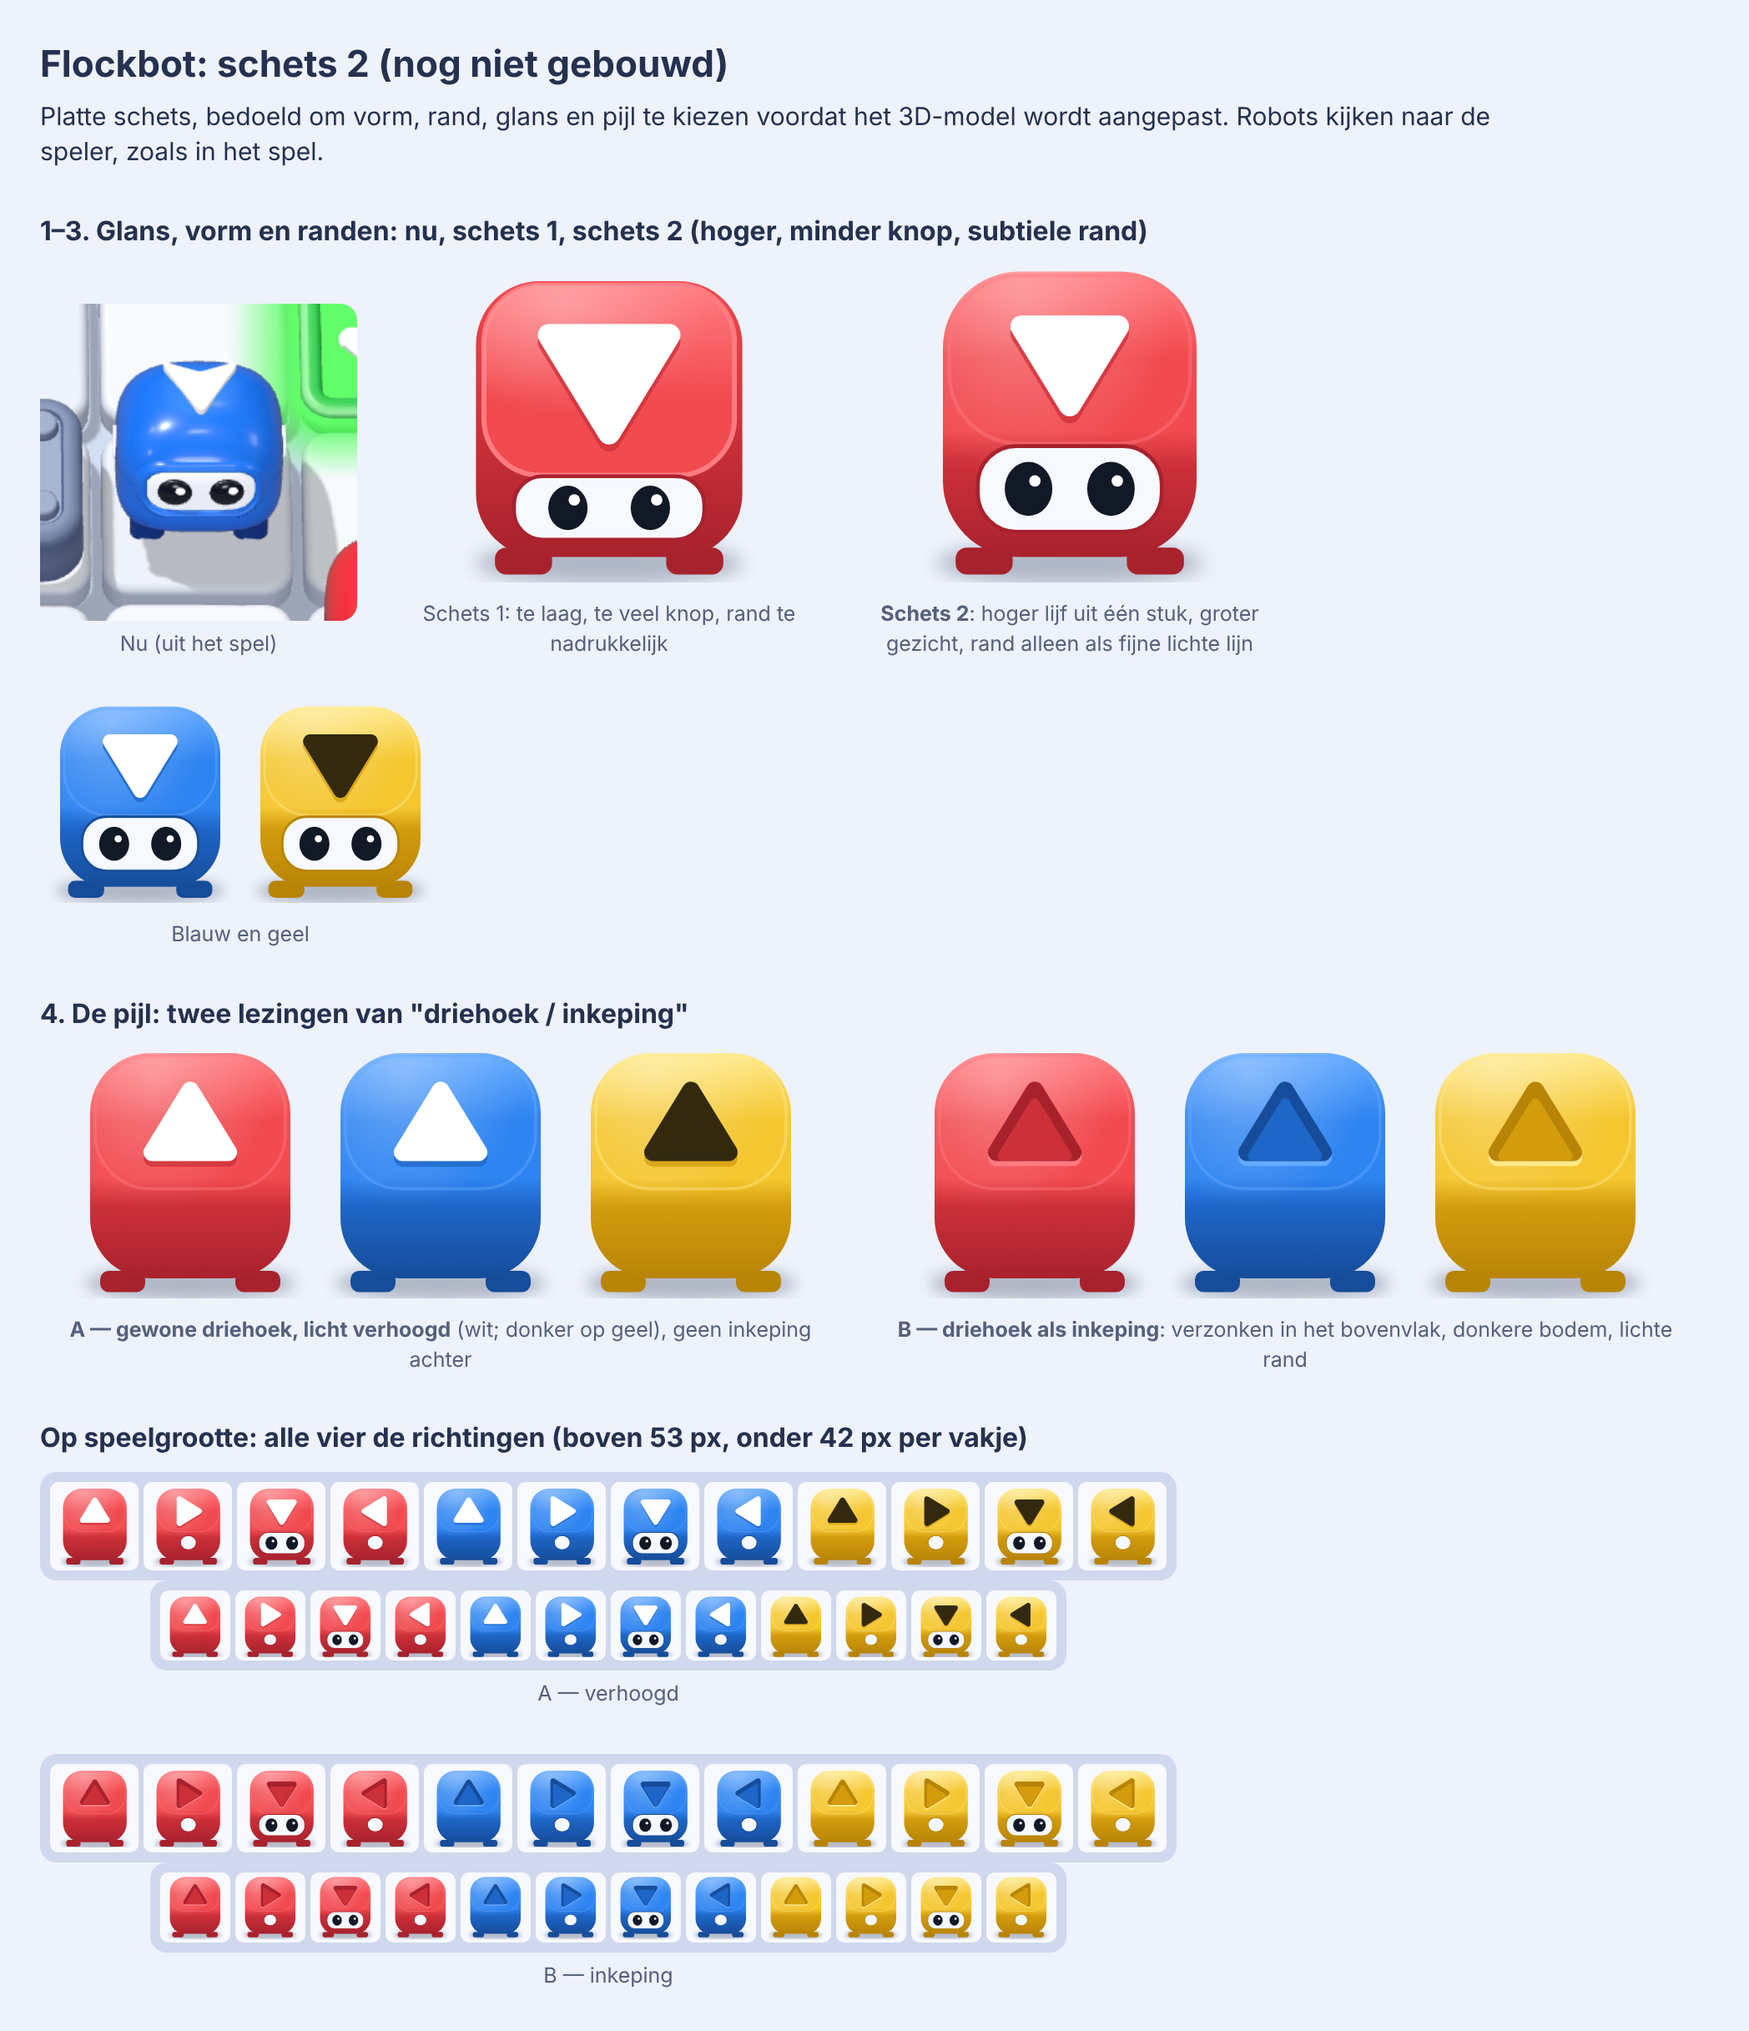
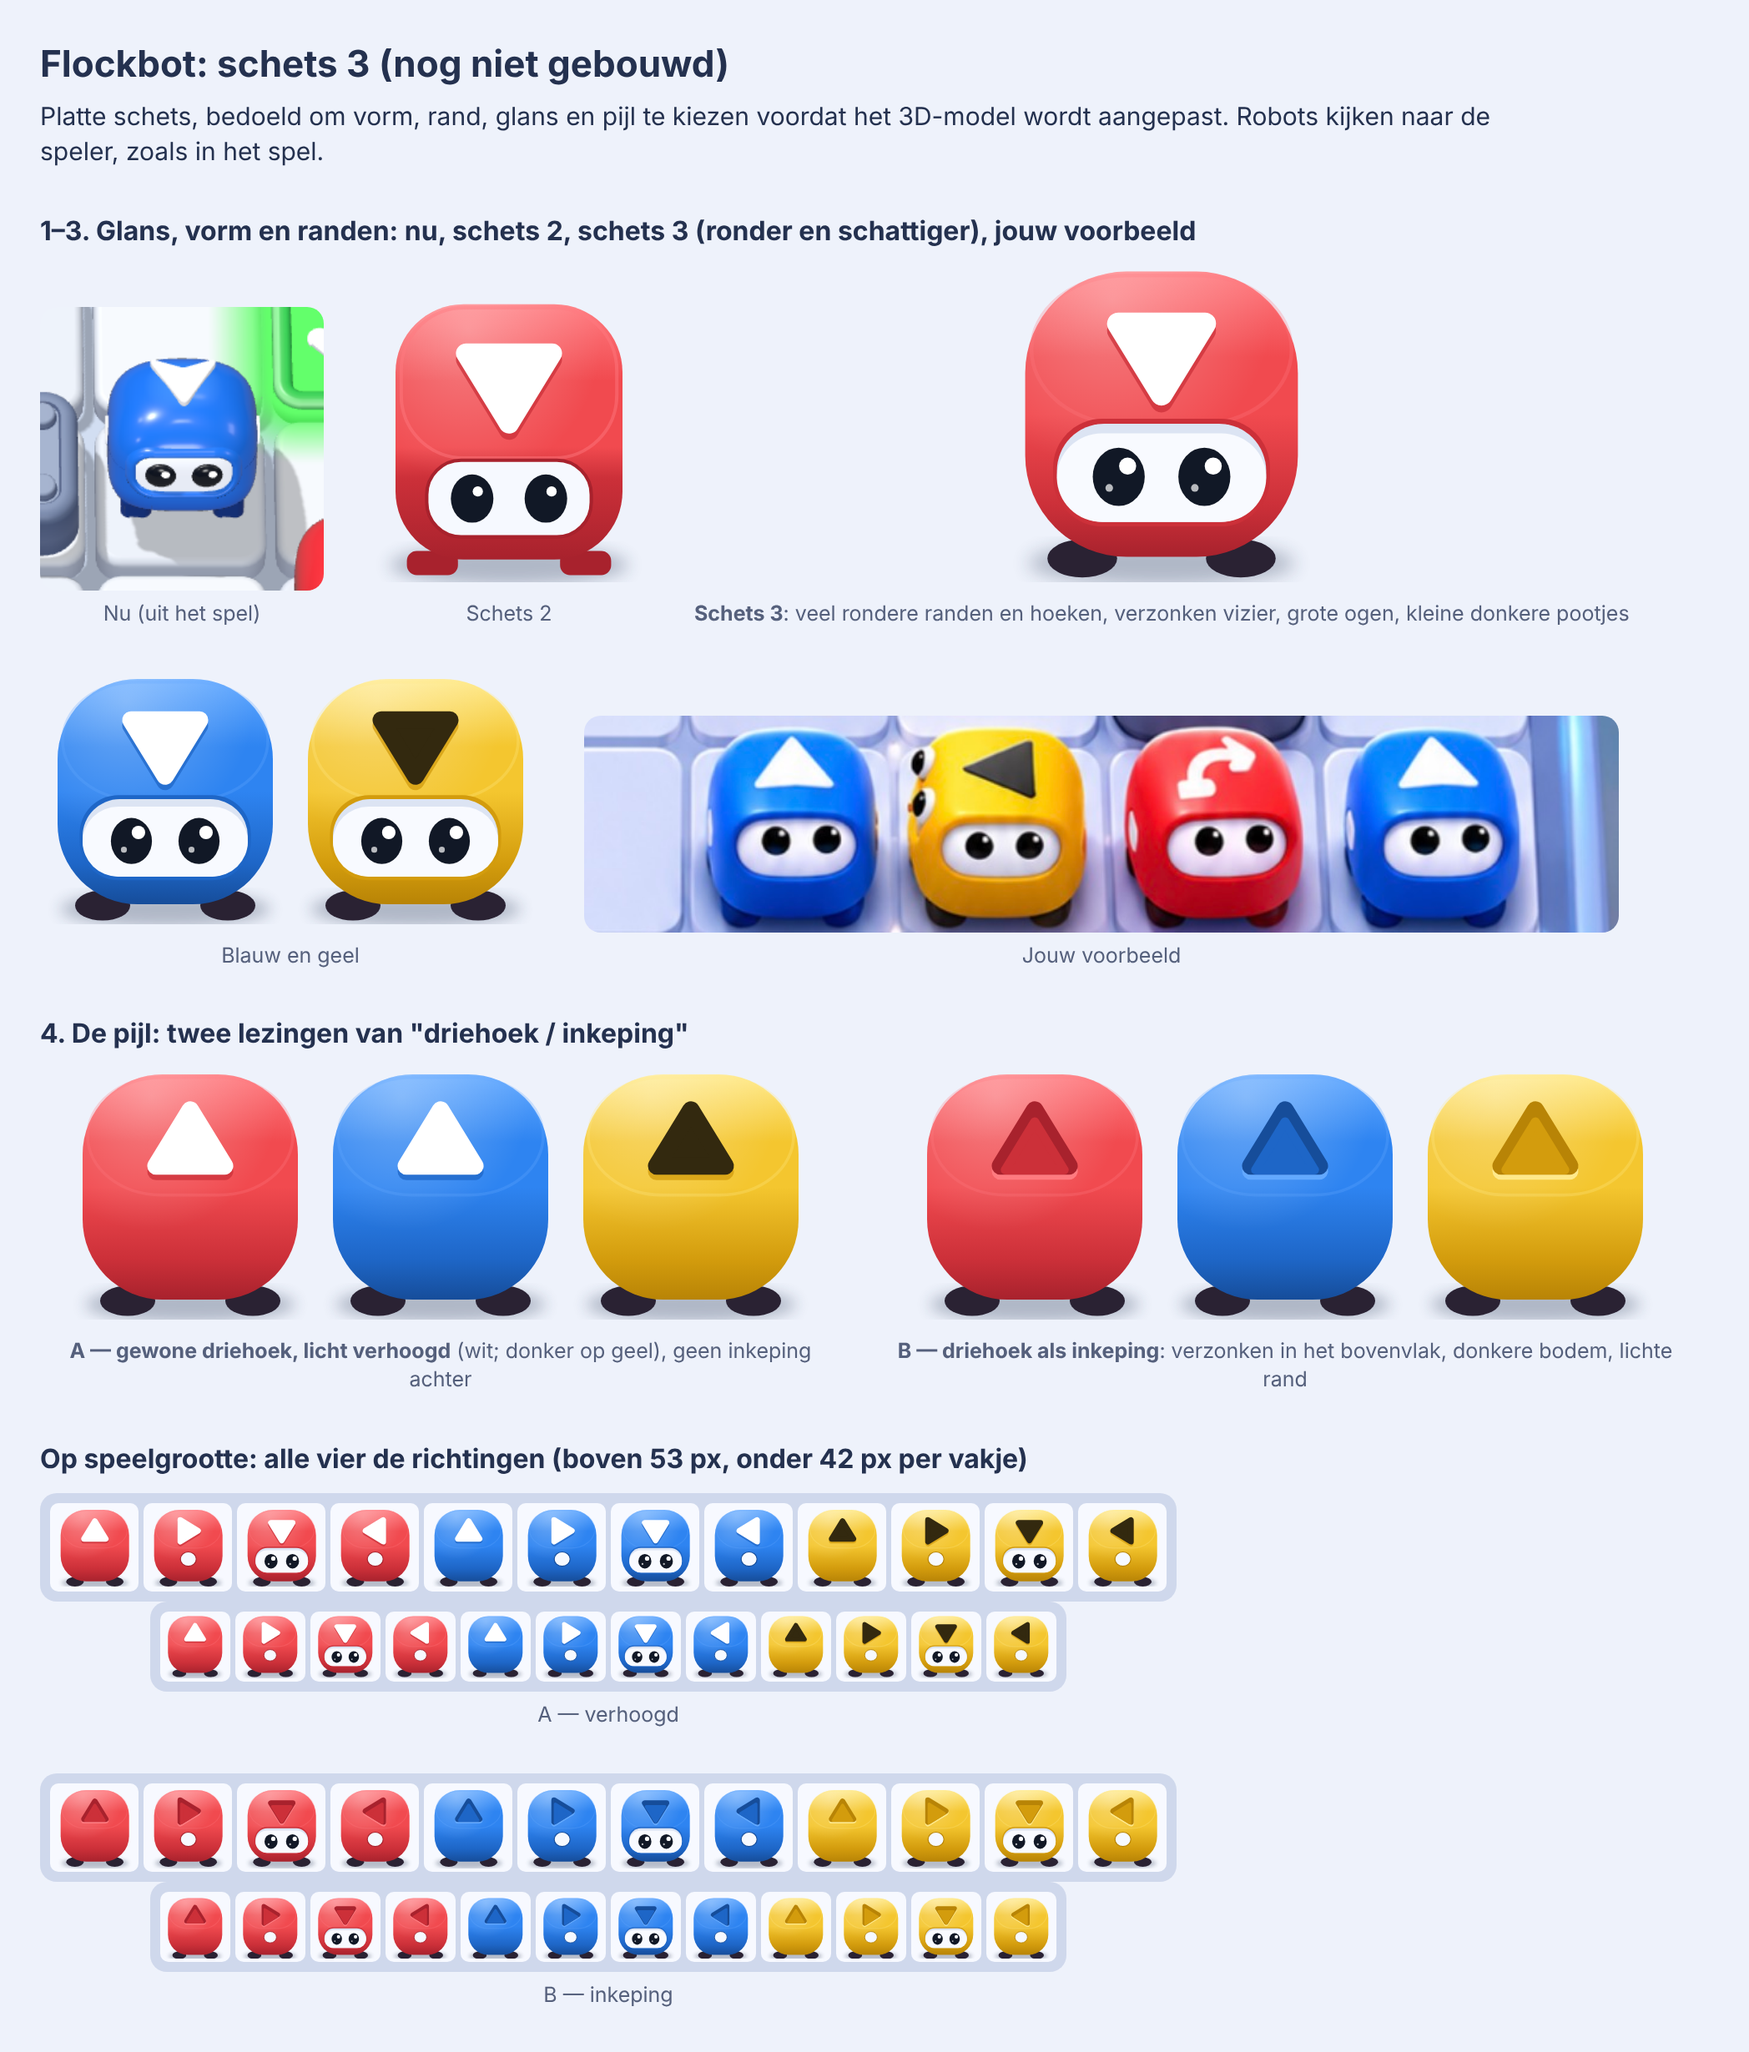
docs: third Flockbot sketch, rounder and cuter after the owner's reference
Owner feedback on the second sketch: rounder edges, more cuteness, with a
reference picture of rounded-cube robots.

Task: flockbot-look

Claude-Session: https://claude.ai/code/session_01PBSmYqZiMRuZdJnMvKVbds

diff --git a/production/qa/evidence/flockbot-look/sketch.html b/production/qa/evidence/flockbot-look/sketch.html
@@ -7,15 +7,15 @@
   h1 { font-size: 22px; margin: 0 0 4px; } h2 { font-size: 16px; margin: 26px 0 10px; }
   p { margin: 0 0 8px; max-width: 900px; }
   .row { display: flex; gap: 26px; align-items: flex-end; flex-wrap: wrap; }
-  figure { margin: 0; text-align: center; max-width: 480px; } #big figure { max-width: 250px; } #small figure { max-width: none; } figcaption { font-size: 12.5px; margin-top: 6px; color: #55607c; }
+  figure { margin: 0; text-align: center; max-width: 480px; } #big figure { max-width: 640px; } #small figure { max-width: none; } figcaption { font-size: 12.5px; margin-top: 6px; color: #55607c; }
   .board { background: #cfd8ec; border-radius: 10px; padding: 6px; display: inline-flex; gap: 3px; }
   .cell { background: #f7f9ff; border-radius: 5px; display: flex; align-items: center; justify-content: center; }
   .now { border-radius: 10px; display: block; }
 </style>
-<h1>Flockbot: schets 2 (nog niet gebouwd)</h1>
+<h1>Flockbot: schets 3 (nog niet gebouwd)</h1>
 <p>Platte schets, bedoeld om vorm, rand, glans en pijl te kiezen voordat het 3D-model wordt aangepast. Robots kijken naar de speler, zoals in het spel.</p>
 
-<h2>1–3. Glans, vorm en randen: nu, schets 1, schets 2 (hoger, minder knop, subtiele rand)</h2>
+<h2>1–3. Glans, vorm en randen: nu, schets 2, schets 3 (ronder en schattiger), jouw voorbeeld</h2>
 <div class="row" id="big"></div>
 
 <h2>4. De pijl: twee lezingen van "driehoek / inkeping"</h2>
@@ -32,12 +32,13 @@ const T = {
 };
 let uid = 0;
 /** One sketched robot. s = cell size in px, heading 0 north (away), 1 east, 2 south (to player), 3 west; variant 'A' raised, 'B' notch. */
-function bot(color, s, heading, variant, v1 = false) {
+function bot(color, s, heading, variant, mode = 'v3') {
   const c = T[color], id = 'g' + uid++;
+  const v1 = mode === 'v1', v3 = mode === 'v3';
   // v1: the first sketch (low, button-like). v2: taller, one moulded body, subtle rim.
-  const w = (v1 ? 0.84 : 0.8) * s, x0 = (s - w) / 2, faceH = (v1 ? 0.60 : 0.5) * s, wall = (v1 ? 0.27 : 0.4) * s, y0 = (v1 ? 0.05 : 0.02) * s, r = (v1 ? 0.2 : 0.24) * s;
-  const cx = s / 2, cy = y0 + faceH / 2 + (v1 ? 0.01 : 0.035) * s;
-  const k = v1 ? 1 : 0.8;
+  const w = (v1 ? 0.84 : v3 ? 0.86 : 0.8) * s, x0 = (s - w) / 2, faceH = (v1 ? 0.60 : v3 ? 0.44 : 0.5) * s, wall = (v1 ? 0.27 : v3 ? 0.46 : 0.4) * s, y0 = (v1 ? 0.05 : 0.02) * s, r = (v1 ? 0.2 : v3 ? 0.32 : 0.24) * s;
+  const cx = s / 2, cy = y0 + faceH / 2 + (v1 ? 0.01 : v3 ? 0.045 : 0.035) * s;
+  const k = v1 ? 1 : v3 ? 0.72 : 0.8;
   const tri = `M0,${-0.17 * s * k} L${0.19 * s * k},${0.14 * s * k} L${-0.19 * s * k},${0.14 * s * k} Z`;
   const rot = heading * 90, j = 0.07 * s;
   let arrow;
@@ -52,19 +53,26 @@ function bot(color, s, heading, variant, v1 = false) {
   // What the front wall shows: face (to player), ear (sideways), nothing (away).
   const wy = y0 + faceH + (v1 ? 0.015 : 0.05) * s;
   let front = '';
-  if (heading === 2) {
+  if (heading === 2 && v3) {
+    // Sunk visor: a big light window with a soft shadow under its upper edge, and large eyes low in it.
+    const ww = 0.66 * s, wh = 0.31 * s, wx = cx - ww / 2, vy = y0 + faceH + 0.04 * s, ey = vy + wh * 0.54;
+    front = `<rect x="${wx - 0.012 * s}" y="${vy - 0.016 * s}" width="${ww + 0.024 * s}" height="${wh + 0.03 * s}" rx="${wh * 0.5}" fill="${c.side}"/>
+      <rect x="${wx}" y="${vy}" width="${ww}" height="${wh}" rx="${wh * 0.48}" fill="#DCE4F3"/>
+      <rect x="${wx}" y="${vy + 0.03 * s}" width="${ww}" height="${wh - 0.03 * s}" rx="${wh * 0.46}" fill="#F8FAFF"/>` +
+      [-1, 1].map((k) => `<ellipse cx="${cx + k * 0.135 * s}" cy="${ey}" rx="${0.082 * s}" ry="${0.092 * s}" fill="#111826"/><circle cx="${cx + k * 0.135 * s + 0.028 * s}" cy="${ey - 0.034 * s}" r="${0.027 * s}" fill="#fff"/><circle cx="${cx + k * 0.135 * s - 0.03 * s}" cy="${ey + 0.035 * s}" r="${0.012 * s}" fill="#fff" opacity=".7"/>`).join('');
+  } else if (heading === 2) {
     const ww = (v1 ? 0.6 : 0.58) * s, wh = (v1 ? 0.2 : 0.27) * s, wx = cx - ww / 2;
     front = `<rect x="${wx}" y="${wy}" width="${ww}" height="${wh}" rx="${wh * 0.45}" fill="#F6F9FF" stroke="${c.deep}" stroke-width="${0.012 * s}"/>` +
       [-1, 1].map((k) => `<ellipse cx="${cx + k * 0.13 * s}" cy="${wy + wh / 2}" rx="${(v1 ? 0.062 : 0.075) * s}" ry="${(v1 ? 0.07 : 0.085) * s}" fill="#111826"/><circle cx="${cx + k * 0.13 * s + 0.02 * s}" cy="${wy + wh / 2 - 0.025 * s}" r="${0.018 * s}" fill="#fff"/>`).join('');
   } else if (heading % 2 === 1) {
     front = `<ellipse cx="${cx}" cy="${wy + (v1 ? 0.1 : 0.13) * s}" rx="${0.1 * s}" ry="${(v1 ? 0.075 : 0.09) * s}" fill="#F6F9FF" stroke="${c.deep}" stroke-width="${0.012 * s}"/>`;
   }
-  const feet = [-1, 1].map((k) => `<rect x="${cx + k * 0.27 * s - 0.09 * s}" y="${y0 + faceH + wall - 0.03 * s}" width="${0.18 * s}" height="${0.085 * s}" rx="${0.035 * s}" fill="${c.deep}"/>`).join('');
+  const feet = v3 ? [-1, 1].map((k) => `<ellipse cx="${cx + k * 0.25 * s}" cy="${y0 + faceH + wall + 0.005 * s}" rx="${0.11 * s}" ry="${0.06 * s}" fill="#2A2233"/>`).join('') : [-1, 1].map((k) => `<rect x="${cx + k * 0.27 * s - 0.09 * s}" y="${y0 + faceH + wall - 0.03 * s}" width="${0.18 * s}" height="${0.085 * s}" rx="${0.035 * s}" fill="${c.deep}"/>`).join('');
   return `<svg width="${s}" height="${s}" viewBox="0 0 ${s} ${s}">
     <defs>
       <linearGradient id="${id}w" x1="0" y1="0" x2="0" y2="1"><stop offset="0" stop-color="${c.main}"/><stop offset=".55" stop-color="${c.side}"/><stop offset="1" stop-color="${c.deep}"/></linearGradient>
       <linearGradient id="${id}f" x1="0" y1="0" x2="0" y2="1"><stop offset="0" stop-color="${c.top}"/><stop offset=".6" stop-color="${c.main}"/><stop offset="1" stop-color="${c.main}"/></linearGradient>
-      <linearGradient id="${id}m" x1="0" y1="0" x2="0" y2="1"><stop offset="0" stop-color="${c.top}"/><stop offset=".3" stop-color="${c.main}"/><stop offset=".56" stop-color="${c.main}"/><stop offset=".68" stop-color="${c.side}"/><stop offset="1" stop-color="${c.deep}"/></linearGradient>
+      <linearGradient id="${id}m" x1="0" y1="0" x2="0" y2="1"><stop offset="0" stop-color="${c.top}"/><stop offset=".3" stop-color="${c.main}"/><stop offset="${v3 ? 0.5 : 0.56}" stop-color="${c.main}"/><stop offset="${v3 ? 0.82 : 0.68}" stop-color="${c.side}"/><stop offset="1" stop-color="${c.deep}"/></linearGradient>
       <radialGradient id="${id}s" cx=".32" cy=".1" r=".85"><stop offset="0" stop-color="#fff" stop-opacity=".3"/><stop offset=".7" stop-color="#fff" stop-opacity="0"/></radialGradient>
       <filter id="${id}b"><feGaussianBlur stdDeviation="${0.03 * s}"/></filter>
     </defs>
@@ -75,7 +83,7 @@ function bot(color, s, heading, variant, v1 = false) {
     <rect x="${x0 + 0.025 * s}" y="${y0 + 0.012 * s}" width="${w - 0.05 * s}" height="${faceH}" rx="${r * 0.9}" fill="url(#${id}s)"/>` : `
     <rect x="${x0}" y="${y0}" width="${w}" height="${faceH + wall}" rx="${r}" fill="url(#${id}m)"/>
     <rect x="${x0}" y="${y0}" width="${w}" height="${faceH + wall}" rx="${r}" fill="url(#${id}s)"/>
-    <rect x="${x0 + 0.02 * s}" y="${y0 + 0.012 * s}" width="${w - 0.04 * s}" height="${faceH + 0.03 * s}" rx="${r * 0.92}" fill="none" stroke="${c.top}" stroke-opacity=".45" stroke-width="${Math.max(0.6, 0.012 * s)}"/>`}
+    <rect x="${x0 + 0.02 * s}" y="${y0 + 0.012 * s}" width="${w - 0.04 * s}" height="${faceH + 0.03 * s}" rx="${r * 0.92}" fill="none" stroke="${c.top}" stroke-opacity="${v3 ? 0.28 : 0.45}" stroke-width="${Math.max(0.6, 0.012 * s)}"/>`}
     ${front}${arrow}
   </svg>`;
 }
@@ -83,10 +91,11 @@ const fig = (html, cap) => `<figure>${html}<figcaption>${cap}</figcaption></figu
 const button = (color, px) => `<button class="tf-btn tf-action ${color}" style="--w:${px}px;--h:${px}px;--d:${Math.round(px * 0.2)}px;--r:${Math.round(px * 0.25)}px"><span class="tf-clip"><span class="tf-face"></span></span></button>`;
 
 document.getElementById('big').innerHTML =
-  fig('<img class="now" src="before-large.png" height="190">', 'Nu (uit het spel)') +
-  fig(bot('red', 190, 2, 'A', true), 'Schets 1: te laag, te veel knop, rand te nadrukkelijk') +
-  fig(bot('red', 190, 2, 'A'), '<b>Schets 2</b>: hoger lijf uit één stuk, groter gezicht, rand alleen als fijne lichte lijn') +
-  fig(bot('blue', 120, 2, 'A') + bot('yellow', 120, 2, 'A'), 'Blauw en geel');
+  fig('<img class="now" src="before-large.png" height="170">', 'Nu (uit het spel)') +
+  fig(bot('red', 170, 2, 'A', 'v2'), 'Schets 2') +
+  fig(bot('red', 190, 2, 'A'), '<b>Schets 3</b>: veel rondere randen en hoeken, verzonken vizier, grote ogen, kleine donkere pootjes') +
+  fig(bot('blue', 150, 2, 'A') + bot('yellow', 150, 2, 'A'), 'Blauw en geel') +
+  fig('<img class="now" src="owner-reference.jpg" width="620">', 'Jouw voorbeeld');
 
 document.getElementById('arrows').innerHTML =
   fig(['red', 'blue', 'yellow'].map((c) => bot(c, 150, 0, 'A')).join(''), '<b>A — gewone driehoek, licht verhoogd</b> (wit; donker op geel), geen inkeping achter') +
